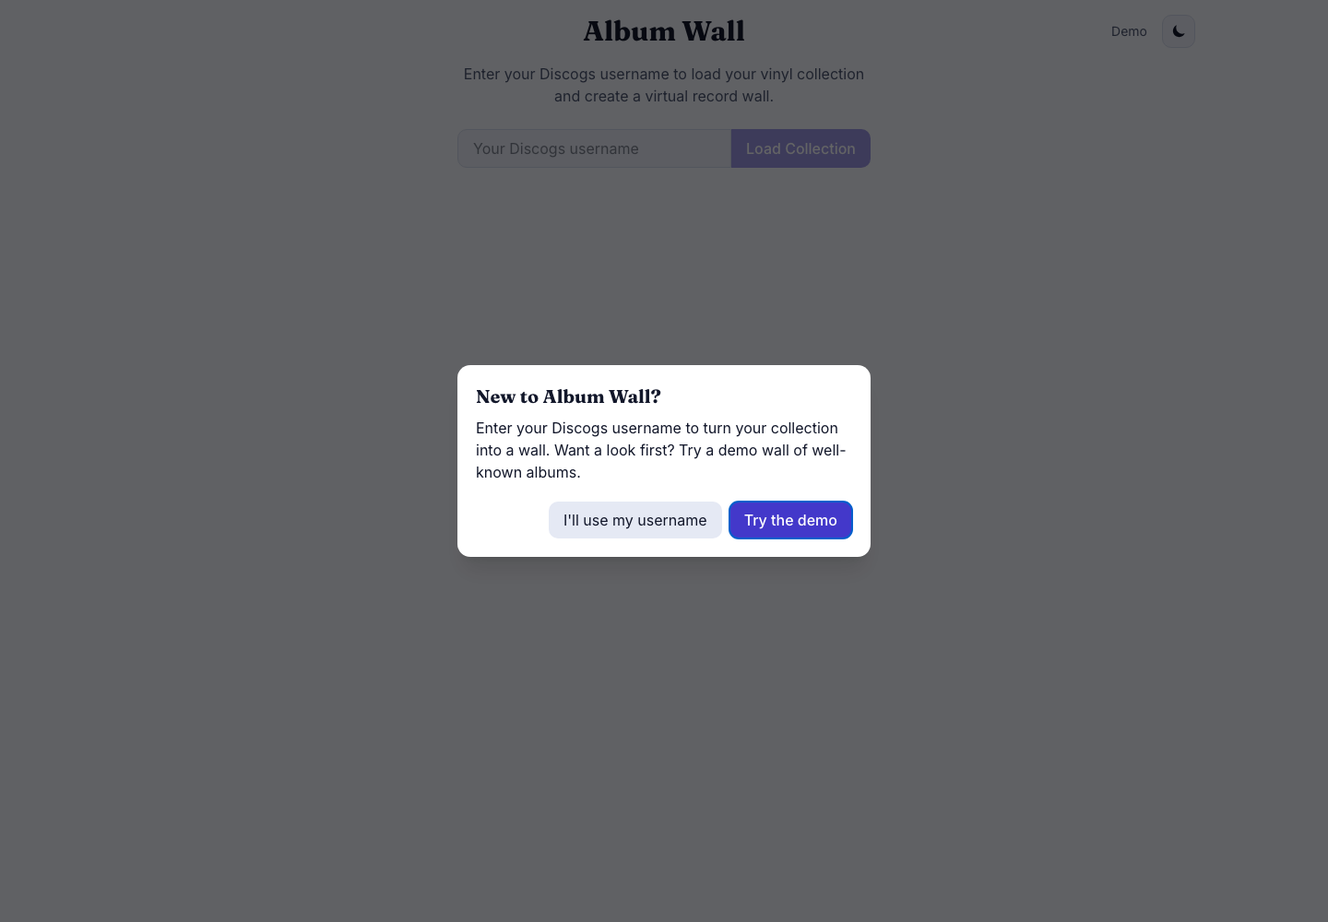
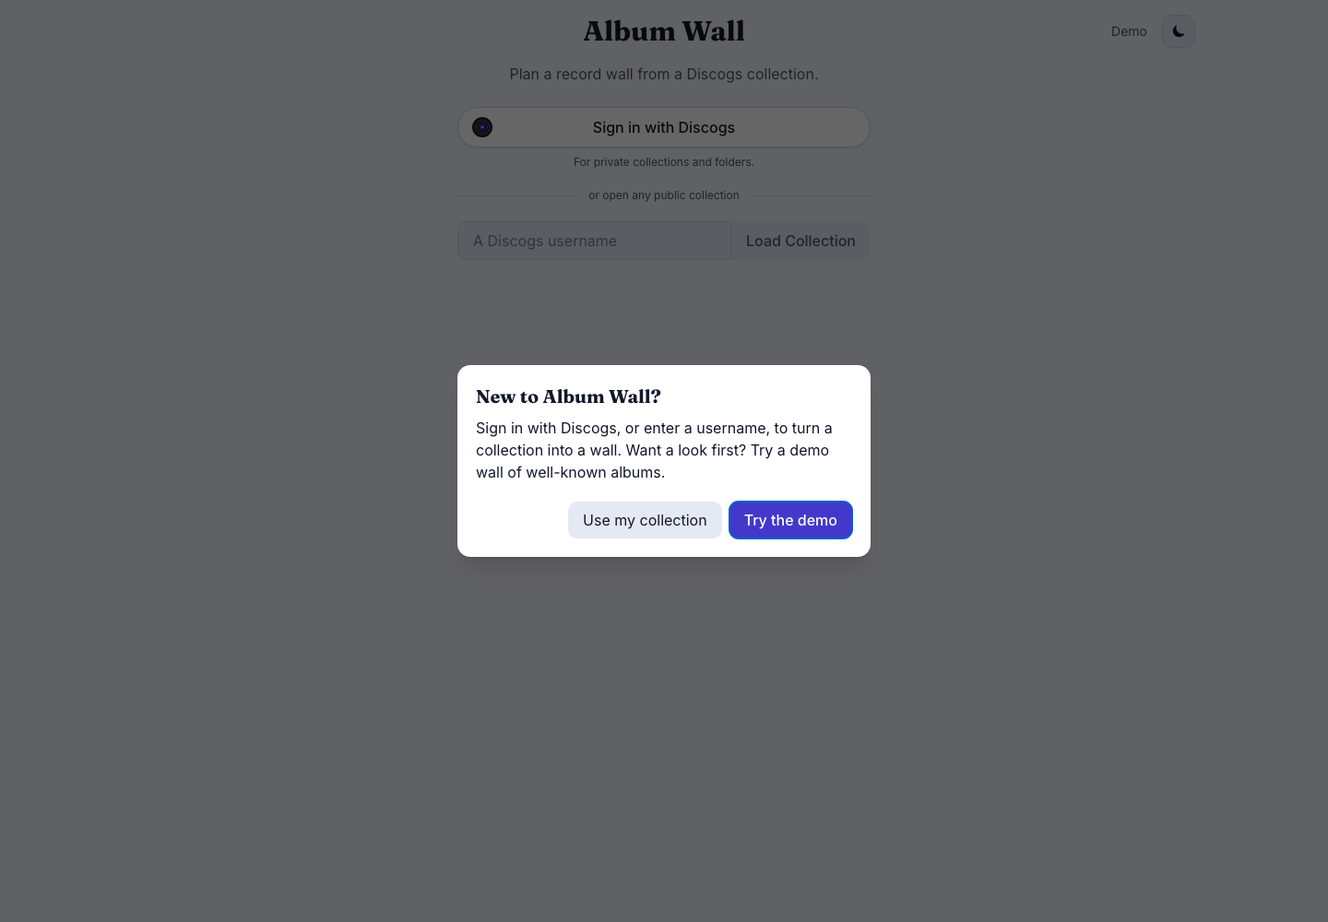
Bring the README and screenshots up to date
The README now describes the app as it is: arranging by artist, genre, year and
color, sign-in, layouts kept in an account, short links, the collection cache, shared
cover colors and the cost limits. The eight screenshots are recaptured from this
revision, including the arrange choices and a phone view, and the quality figures
are measured again.

diff --git a/scripts/capture-case-study.ts b/scripts/capture-case-study.ts
@@ -61,7 +61,7 @@ if (ogOnly) {
 const page = await browser.newPage({ viewport: { width: 1440, height: 1000 } });
 await page.goto(url);
 
-// 1. Fresh visit: the welcome dialog offers the demo.
+// 1. Fresh visit: sign in or enter a username, or try the demo.
 await page.getByRole("button", { name: "Try the demo", exact: true }).waitFor();
 await page.screenshot({ path: `${out}/01-fresh-visit.png` });
 
@@ -82,31 +82,55 @@ await page.getByRole("button", { name: "Shuffle", exact: true }).click();
 await coversLoaded(page);
 await page.screenshot({ path: `${out}/03-pin-and-shuffle.png` });
 
-// 4. Share or export: the export menu with the sized image options.
-await page.getByRole("button", { name: /Export/ }).click();
-await page.getByRole("menuitem", { name: "Share or Save Image" }).waitFor();
-await page.screenshot({ path: `${out}/04-export-menu.png` });
-
-// 5. Sort by Color: gradients suggested for this collection, and the gradient editor.
+// 4. Save or share: the image menu with its sized options.
+await page.getByRole("button", { name: /Save image/ }).click();
+await page.getByRole("menuitem", { name: "Wall as shown" }).waitFor();
+await page.screenshot({ path: `${out}/04-save-image-menu.png` });
 await page.keyboard.press("Escape");
-await page.getByRole("button", { name: "Sort by Color", exact: true }).click();
+
+// 5. Arrange by genre: one tap on a choice builds the wall.
+await page.getByRole("button", { name: "Genre", exact: true }).click();
+// Let the button colors finish their transition.
+await page.waitForTimeout(500);
+const toolbar = page.locator("div.rounded-panel", {
+  has: page.getByRole("group", { name: "Arrange by genre" }),
+});
+await toolbar.screenshot({ path: `${out}/05-arrange-by-genre.png` });
+
+// 6. Sort by Color: gradients suggested for this collection, and the gradient editor.
+await page.getByRole("button", { name: "Color", exact: true }).click();
 await page.getByText("Suggested for your collection").waitFor();
+await page.waitForTimeout(500);
 const builder = page.locator("section", {
   has: page.getByRole("heading", { name: "Sort by Color" }),
 });
-await builder.screenshot({ path: `${out}/05-sort-by-color.png` });
+await builder.screenshot({ path: `${out}/06-sort-by-color.png` });
 
-// 6. A rainbow wall built from the whole collection (unpinned first, so every spot is free).
-await page.getByRole("button", { name: /Pin All/ }).click();
-await page.getByRole("button", { name: /Unpin All/ }).click();
+// 7. A rainbow wall built from the whole collection (unpinned first, so every spot is free).
+await page.getByRole("button", { name: "Pin all" }).click();
+await page.getByRole("button", { name: "Pin all" }).click();
 await page.getByRole("button", { name: /Rainbow/ }).click();
 await page.getByRole("button", { name: "Build wall" }).click();
-await page.getByText(/^Built the wall/).waitFor();
+await page.getByText(/^Wall built/).waitFor();
 await coversLoaded(page);
 const wall = page
-  .locator("div.rounded-panel", { has: page.getByRole("heading", { name: /Wall Display/ }) })
+  .locator("div.rounded-panel", { has: page.getByRole("heading", { name: /Your wall/ }) })
   .first();
-await wall.screenshot({ path: `${out}/06-gradient-wall.png` });
+await wall.screenshot({ path: `${out}/07-gradient-wall.png` });
+await page.close();
+
+// 8. On a phone.
+const phone = await browser.newPage({
+  viewport: { width: 390, height: 844 },
+  deviceScaleFactor: 2,
+  hasTouch: true,
+});
+await phone.addInitScript(() => localStorage.setItem("album-wall:welcome-dismissed", "1"));
+await phone.goto(url);
+await phone.getByRole("button", { name: "Try the demo wall" }).click();
+await phone.locator("[data-album-id]").first().waitFor();
+await coversLoaded(phone);
+await phone.screenshot({ path: `${out}/08-phone.png` });
 
 await browser.close();
 
@@ -117,11 +141,11 @@ writeFileSync(
     {
       revision,
       route: `${basePath}/`,
-      viewport: "1440x1000",
+      viewport: "1440x1000 (scene 8: 390x844 phone)",
       capturedAt: new Date().toISOString(),
     },
     null,
     2
   ) + "\n"
 );
-console.log(`Captured six scenes at ${revision} from ${url}`);
+console.log(`Captured eight scenes at ${revision} from ${url}`);

diff --git a/README.md b/README.md
@@ -1,25 +1,24 @@
 # Album Wall
 
-Preview which records look good together on a wall before moving any of them. Album Wall lays a vinyl collection out as an 8 × 4 grid of covers, with the rest of the collection in a pool below. Drag records around, pin the ones you want to keep, shuffle the rest, then save the result as an image or copy a link to share it.
+Preview which records look good together on a wall before moving any of them. Album Wall lays a vinyl collection out as a grid of covers (8 × 4 by default), with the rest of the collection in a pool below. Drag records around, pin the ones you want to keep, build a wall by color, artist, genre or year, then save the result as an image or share a link.
 
 **Live app:** [bradleygolski.com/album-wall](https://bradleygolski.com/album-wall/)
 
-I collect vinyl and hang part of the collection on a wall, swapping records every so often like an art installation. I built Album Wall to see which covers look good, or clash, next to each other, and to plan a wall on screen before hanging anything. I wrote it mainly for myself and kept it usable by other collectors. It can load a public Discogs collection by username, or open a demo wall of 96 well-known albums with no account.
+I collect vinyl and hang part of the collection on a wall, swapping records every so often like an art installation. I built Album Wall to see which covers look good, or clash, next to each other, and to plan a wall on screen before hanging anything. I wrote it mainly for myself and kept it usable by other collectors. It can load a public Discogs collection by username, your own private collection when you sign in with Discogs, or open a demo wall of 96 well-known albums with no account.
 
 ## What it does
 
-- **Try it without an account.** First-time visitors are offered a demo wall of 96 well-known albums, with covers loaded from the Cover Art Archive. The demo link stays in the header.
-- **Load a Discogs collection** by username, or **sign in with Discogs** to load your own private collection or one of its folders. The sign-in key stays in your browser; the proxy passes it to Discogs and keeps nothing.
+- **Try it without an account.** First-time visitors are offered a demo wall of 96 well-known albums, with covers loaded from the Cover Art Archive.
+- **Load a Discogs collection** by username, or **sign in with Discogs** to load your own private collection, or one of its folders, in one tap. The sign-in key stays in your browser; the proxy passes it to Discogs and keeps nothing.
 - **Rearrange by dragging** records between the wall and the pool, or tap a record to move or swap it.
 - **Pin** records so that shuffling and swapping leave them in place. **Shuffle** only moves unpinned records, and **Undo** steps back.
-- **Sort** by artist or genre, change the grid size, and hide the labels.
-- **Build a wall from a gradient.** Sort by Color opens a simple gradient editor (two or three colors, presets, a direction) and suggests gradients your own collection can fill well. The wall is filled from your whole collection with the covers that best fit it and each other, judged by each cover's main colors and how its parts line up with the gradient, measured in your browser from tiny copies of the covers, only when you ask. An optional switch keeps covers by the same artist from touching, and any color on a cover can start a wall of its own.
-- **Search** the pool, and optionally **show each album once** when the collection holds several pressings of one album.
-- **Remember what has been up.** Mark the wall when you hang it; the pool can then list records that have not been hung recently first, an album's details say when it was last up, and Build wall can prefer rested records.
-- **Keep layouts.** Save the wall under a name, put a saved wall back, and compare the wall with a saved one: a small diagram of the wall shows where each cover goes, with the steps in an order you can follow at the real wall. Layouts are kept in your browser; save a backup file to keep a copy or move them to another device.
-- **Save the wall as an image** at a phone-wallpaper, desktop-wallpaper or square-print size, or copy a share link. The wall is remembered in the browser between visits.
-- **Keep working when an image service is down.** Covers come from the app's own image service, then a public image proxy, then their own hosts, with a note when they load directly; covers whose host does not allow it are left out of saved images, and the message says how many.
-- **Share a link.** A link to the app unfurls with a preview image. A link to a particular wall shows the same image, because the wall is stored in the part of the address after the `#`, which is never sent to a server; to share a specific wall as a picture, save it as an image.
+- **Arrange** the wall from your whole collection in one tap: **Artist** sorts A to Z or builds a wall of one artist, **Genre** builds a wall of one genre or style (or runs through all of them), **Year** runs oldest to newest, newest first or one decade. Each is one reorder, so Undo puts the old wall back.
+- **Build a wall from a gradient.** **Color** opens a simple gradient editor (two or three colors, presets, a direction) and suggests gradients your own collection can fill well. The wall is filled from your whole collection with the covers that best fit it and each other, judged by each cover's main colors and how its parts line up with the gradient, measured from tiny copies of the covers only when you ask. An optional switch keeps covers by the same artist from touching, and any color on a cover can start a wall of its own.
+- **Search** the pool. **One copy per album** shows each album once when the collection holds several pressings of it; pressings are matched by their Discogs master release, so albums that merely share a title stay apart. Change the grid size, and show labels if you want them.
+- **Remember what has been up.** Mark a saved layout as on your wall; the pool can then list records that have not been hung recently first, an album's details say when it was last up, and Build wall can avoid recent walls.
+- **Keep layouts.** Save the wall under a name, put a saved wall back, and compare the wall with a saved one: a small diagram of the wall shows where each cover goes, with the steps in an order you can follow at the real wall. Layouts are kept in your browser, or, when you are signed in, in your account so they load on any device (see [Privacy](https://bradleygolski.com/album-wall/privacy/)). A backup file moves them elsewhere.
+- **Save the wall as an image** at a phone-wallpaper, desktop-wallpaper or square-print size, with progress shown while it is prepared, or **share a link**. A short link opens the wall and shows a picture of it in message previews; if a short link cannot be made, a longer link that holds the wall in the part of the address after the `#` is copied instead.
+- **Keep working when a service is down.** Covers come from the app's own image service, then a public image proxy, then their own hosts; collections and cover colors fall back to loading directly if the cache or color service cannot be reached.
 
 ## Screenshots
 
@@ -27,26 +26,33 @@ Captured from the static build using `scripts/capture-case-study.ts` (the revisi
 
 | | |
 |---|---|
-| ![First-visit dialog titled "New to Album Wall?" offering "Try the demo" or "I'll use my username"](docs/screenshots/01-fresh-visit.png) | ![The 8 by 4 demo wall of album covers above the pool of remaining records, with sort, shuffle, undo and export controls](docs/screenshots/02-wall-and-pool.png) |
-| A fresh visit offers the demo. | The demo's 8 × 4 wall with the record pool below it. |
-| ![The wall after pinning four records and shuffling; the pinned covers carry a pin badge and stayed in their places](docs/screenshots/03-pin-and-shuffle.png) | ![The Export menu open, listing Share or Save Image, phone wallpaper, desktop wallpaper and square print sizes, and Copy Share Link](docs/screenshots/04-export-menu.png) |
-| Four records pinned, then shuffled. | The Export menu with sized image options and a share link. |
-| ![Sort by Color: gradients suggested for this collection, presets and single colors, the colors and direction, and a preview of what each spot on the 8 by 4 wall aims for](docs/screenshots/05-sort-by-color.png) | ![A rainbow wall built from the demo collection: red and orange covers on the left through yellow and green to blue and purple on the right](docs/screenshots/06-gradient-wall.png) |
-| Sort by Color with suggestions for this collection. | A rainbow wall built from the whole collection. |
+| ![First-visit dialog titled "New to Album Wall?" over the sign-in page, offering "Try the demo" or "Use my collection"](docs/screenshots/01-fresh-visit.png) | ![The 8 by 4 demo wall of album covers above the pool of remaining records, with the arrange, wall and save controls](docs/screenshots/02-wall-and-pool.png) |
+| A fresh visit offers sign-in, a username, or the demo. | The demo's 8 × 4 wall with the record pool below it. |
+| ![The wall after pinning four records and shuffling; the pinned covers carry a pin badge and stayed in their places](docs/screenshots/03-pin-and-shuffle.png) | ![The Save image menu open, listing sizes such as the wall as shown, phone wallpaper, desktop wallpaper and square print](docs/screenshots/04-save-image-menu.png) |
+| Four records pinned, then shuffled. | The Save image menu with sized options. |
+| ![The Arrange buttons (By hand, Artist, Genre, Year, Color) with Genre chosen and a row of genres below: All genres, Rock, Pop Rock, Pop, Ballad and others](docs/screenshots/05-arrange-by-genre.png) | ![Sort by Color: gradients suggested for this collection, presets and single colors, the colors and direction, and a preview of what each spot on the 8 by 4 wall aims for](docs/screenshots/06-sort-by-color.png) |
+| Arrange by genre: one tap on a choice builds the wall. | Color: suggested gradients and the gradient editor. |
+| ![A rainbow wall built from the demo collection: red and orange covers on the left through yellow and green to blue and purple on the right](docs/screenshots/07-gradient-wall.png) | ![The app on a phone: header, the arrange, wall and save controls, and the first rows of a 4 by 4 wall](docs/screenshots/08-phone.png) |
+| A rainbow wall built from the whole collection. | The same app on a phone. |
 
 ## How it is built
 
-- **Frontend:** a Next.js, React and TypeScript app exported as static files and hosted on GitHub Pages. Tailwind CSS handles styling, [dnd-kit](https://dndkit.com/) the drag and drop, and html2canvas the image export.
-- **Discogs proxy:** the browser cannot call the Discogs API with credentials, so a small AWS Lambda behind a Function URL fetches collections. The Discogs credentials live in AWS SSM Parameter Store and never reach the client. Signing in uses Discogs' OAuth 1.0a through the same proxy: the visitor's access token is kept in their browser and sent with their requests, and the proxy signs them with the app's consumer secret without storing anything ([details](infra/README.md#sign-in-with-discogs)). The Lambda runs with reserved concurrency of 5. The stack is defined with the AWS CDK in [`infra/`](infra/README.md).
-- **Cover images:** Discogs serves covers without the CORS header a page needs to read their pixels, which saving an image and measuring colors both do. A second Lambda (arm64, [sharp](https://sharp.pixelplumbing.com/)) fetches covers from Discogs and the Cover Art Archive only, and returns square WebP copies at 64, 320 or 600 pixels with `Access-Control-Allow-Origin: *`. It sits behind the short link CloudFront distribution at `/img`, which caches each copy for a year by cover address and width; only CloudFront may call it (origin access control). Covers from other hosts, or any the service cannot fetch, go through the public [images.weserv.nl](https://images.weserv.nl/) proxy instead.
-- **Deployment:** every push to `main` runs a GitHub Actions workflow that deploys the CDK stack, builds the static site with the proxy URL it produces, checks the build output and publishes to GitHub Pages. AWS access uses GitHub OIDC, so there is no stored access key.
-- **Demo data:** a JSON list of 96 albums in `public/demo/collection.json`. Only the cover images load from outside the app, from the Cover Art Archive.
-- **Cover loading:** a tile fetches its cover only once it is within about a screen of the viewport. The browser's own lazy loading looks several screens ahead, which on a phone requested 82 of the demo's 96 covers before any scrolling; with this it requests 16. Saving an image loads every cover first.
+- **Frontend:** a Next.js, React and TypeScript app exported as static files and hosted on GitHub Pages. Tailwind CSS handles styling, [dnd-kit](https://dndkit.com/) the drag and drop, and html2canvas the image export. Everything that arranges a wall, including the color matching, runs in the visitor's browser (the gradient builder in a web worker).
+- **Discogs proxy:** the browser cannot call the Discogs API with credentials, so a small AWS Lambda behind a Function URL fetches collections. The Discogs credentials live in AWS SSM Parameter Store and never reach the client. Signing in uses Discogs' OAuth 1.0a through the same proxy: the visitor's access token is kept in their browser and sent with their requests, and the proxy signs them with the app's consumer secret without storing anything ([details](infra/README.md#sign-in-with-discogs)). The proxy also stores signed-in visitors' saved layouts in DynamoDB and makes short share links. The stack is defined with the AWS CDK in [`infra/`](infra/README.md).
+- **Collection cache:** a public collection is cached for five minutes by CloudFront, on the same domain as short links, keyed by username, so a second load does not page through Discogs again. Anything signed in goes straight to the proxy and is never cached.
+- **Cover images:** Discogs serves covers without the CORS header a page needs to read their pixels, which saving an image and measuring colors both do. A Lambda (arm64, [sharp](https://sharp.pixelplumbing.com/)) fetches covers from Discogs and the Cover Art Archive only, and returns square WebP copies at 64, 320 or 600 pixels. It sits behind the CloudFront distribution at `/img`, which caches each copy for a year; only CloudFront may call it. Covers from other hosts go through the public [images.weserv.nl](https://images.weserv.nl/) proxy instead.
+- **Cover colors:** each cover's colors (a palette and nine region colors) are measured in the browser, or, when a service is configured, asked for first from a small Lambda and DynamoDB table that keeps profiles measured by anyone, measuring a few missing ones itself with the same code. The browser measures only what it does not get back, and the main color is always chosen by the app's own rule.
+- **Cost:** every AWS resource is defined in the CDK stack and sized for the always-free allowances: functions have a cap on concurrent runs, DynamoDB tables use provisioned capacity inside the free allowance, a $1 monthly budget emails an alert if anything is spent, and CloudWatch alarms watch each function's invocations, errors and throttles.
+- **Deployment:** every push to `main` runs a GitHub Actions workflow that deploys the CDK stack, builds the static site with the addresses it produces, checks the build output and publishes to GitHub Pages. AWS access uses GitHub OIDC, so there is no stored access key.
+- **Demo data:** a JSON list of 96 albums in `public/demo/collection.json`, with each cover's colors already measured. Only the cover images load from outside the app, from the Cover Art Archive.
+- **Cover loading:** a tile fetches its cover only once it is within about a screen of the viewport. Saving an image loads every cover first.
 
 ## Quality checks
 
-- 302 unit tests in 40 files pass (`npm test`), as do type checking and linting, and the 15 browser tests pass (`npm run test:a11y` runs the accessibility ones). Playwright and axe check accessibility in light and dark mode.
-- Lighthouse 12.6.1 (the repository's `lighthouserc.json`, the mobile profile with its default throttling), median of 5 runs against the static build served locally with gzip, as GitHub Pages serves it, at revision `ba76966`: performance 96, accessibility 100, best practices 100, SEO 100. First contentful paint 0.8 s, largest contentful paint 2.7 s, total blocking time 0 ms and layout shift 0. The page transferred 283 KB, of which 181 KB was JavaScript. The same configuration run three times against the live site gave performance 98 to 99. The audit loads the page as a first-time visitor sees it, so no covers are part of it: the largest paint is the welcome dialog's text, which appears once the JavaScript has run. The pull request check requires performance of at least 90.
+Measured at revision `bcf9fd9`:
+
+- 701 unit and component tests in 87 files pass (`npm test`), as do type checking and linting. 49 browser tests pass (Playwright, against the static build), including accessibility checks with axe in light and dark mode. The infrastructure has 196 tests (`cd infra && npx jest`) and `npx cdk synth` succeeds.
+- Lighthouse 12.6.1 (the repository's `lighthouserc.json`, the mobile profile with its default throttling), median of 5 runs against the static build served locally with gzip, as GitHub Pages serves it: performance 94, accessibility 100, best practices 100, SEO 100. First contentful paint 0.8 s, largest contentful paint 3.2 s, total blocking time 2 ms and layout shift 0. The page transferred 342 KB, of which 221 KB was JavaScript. The audit loads the page as a first-time visitor sees it, so no covers are part of it: the largest paint is the welcome dialog's text, which appears once the JavaScript has run. The pull request check requires performance of at least 90.
 
 ## Development
 
@@ -75,6 +81,7 @@ npm test               # unit tests
 npm run type-check
 npm run lint
 npm run test:a11y      # Playwright + axe against the static build
+cd infra && npm ci && npx jest && npx cdk synth album-wall
 ```
 
 To regenerate the screenshots, build and serve the static site as above, then run `node scripts/capture-case-study.ts` (`--og` makes only the link preview image, `public/og-image.jpg`; it uses Playwright's Chromium; install it with `npx playwright install chromium`).
@@ -83,6 +90,9 @@ To regenerate the screenshots, build and serve the static site as above, then ru
 
 - `NEXT_PUBLIC_DISCOGS_PROXY_URL`: public HTTPS URL of the Discogs proxy. Never put Discogs credentials in a `NEXT_PUBLIC_*` variable.
 - `NEXT_PUBLIC_BASE_PATH`: base path for GitHub Pages, such as `/album-wall` (set in CI).
+- `NEXT_PUBLIC_IMAGE_SERVICE_URL` (optional): the cover image service; defaults to the app's own at `albumwall.bradleygolski.com/img`.
+- `NEXT_PUBLIC_COLLECTION_CACHE_URL` (optional): where public collections are cached; unset, the proxy is called directly.
+- `NEXT_PUBLIC_PROFILE_SERVICE_URL` (optional): the shared cover color service; unset, every cover is measured in the browser.
 - `NEXT_STATIC_EXPORT`: `true` for a static export, `false` for server rendering (`npm run build:ssr`, `npm run start:next`).
 
 ## License

diff --git a/infra/README.md b/infra/README.md
@@ -1,6 +1,6 @@
 # Album Wall Infrastructure
 
-This workspace contains the AWS CDK app and Lambda sources for the static frontend: the Discogs proxy, short share links and the cover image service.
+This workspace contains the AWS CDK app and Lambda sources for the static frontend: the Discogs proxy, short share links, the cover image service, saved walls, the collection cache and the cover color service.
 
 ## What it deploys
 
@@ -9,7 +9,10 @@ This workspace contains the AWS CDK app and Lambda sources for the static fronte
 - IAM permissions for the Lambda to read Discogs credentials from SSM Parameter Store
 - short share links: a DynamoDB table, the link page function and a CloudFront distribution on `albumwall.bradleygolski.com`
 - cover images: a function that resizes allowed covers (Discogs, Cover Art Archive) to 64, 320 or 600 pixel WebP, served by the same distribution at `/img?url=<cover>&w=<width>` and cached for a year
-- a $1 monthly budget and CloudWatch alarms on each function's invocations, errors and throttles
+- saved walls: a DynamoDB table (provisioned 2 read and 2 write units) where the proxy keeps a signed-in visitor's saved layouts and wall history under their Discogs account
+- collection cache: the same distribution serves `/collection?username=<name>` from the proxy and keeps a public collection for five minutes, keyed by username and calling site; the proxy marks errors and signed-in answers as not cacheable, and signed-in requests never go through it
+- cover colors: a DynamoDB table (provisioned 10 read and 10 write units, entries expire after a year) and a function that answers `POST {urls: [...]}` with the profiles kept for up to 100 allowed cover addresses, measuring a few missing ones itself with the app's own `coverProfile` code
+- a $1 monthly budget and CloudWatch alarms on each function's invocations, errors and throttles (ten alarms in all, the free limit)
 
 ## Local commands
 
@@ -56,4 +59,4 @@ Required IAM role capabilities:
 - permission to read and update the Lambda, IAM, and CloudFormation resources managed by the CDK stack
 - permission to read the SSM parameters referenced by the stack
 
-The deploy workflow resolves the live `DiscogsProxyFunctionUrl` CloudFormation output after `cdk deploy` and feeds that into the static frontend build, so the production site always uses the currently deployed proxy endpoint.
+The deploy workflow resolves the live `DiscogsProxyFunctionUrl` and `CoverProfilesUrl` CloudFormation outputs after `cdk deploy` and feeds them into the static frontend build, so the production site always uses the currently deployed endpoints.
